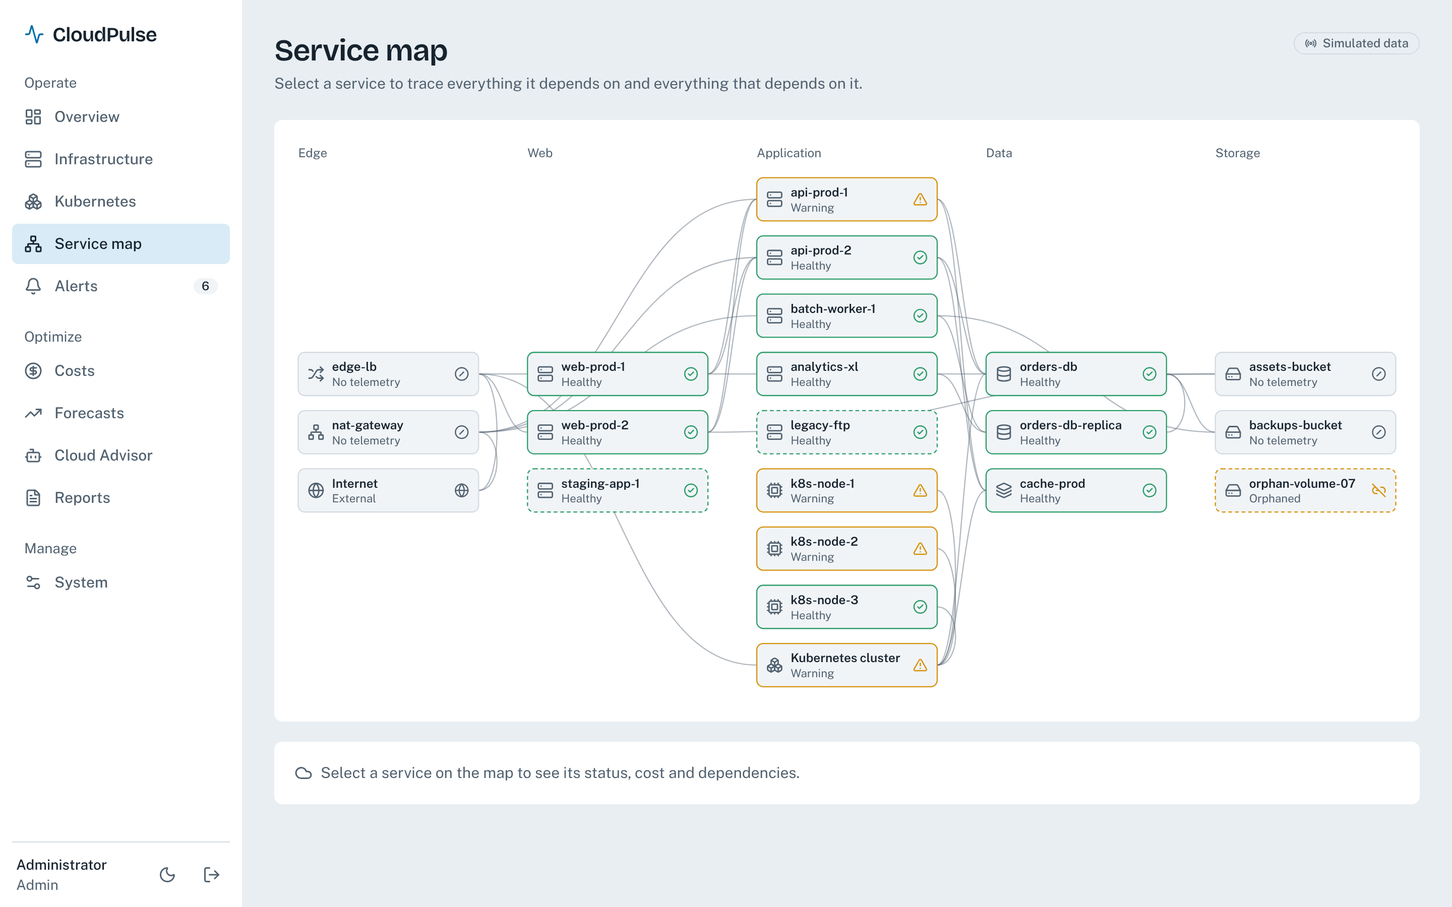
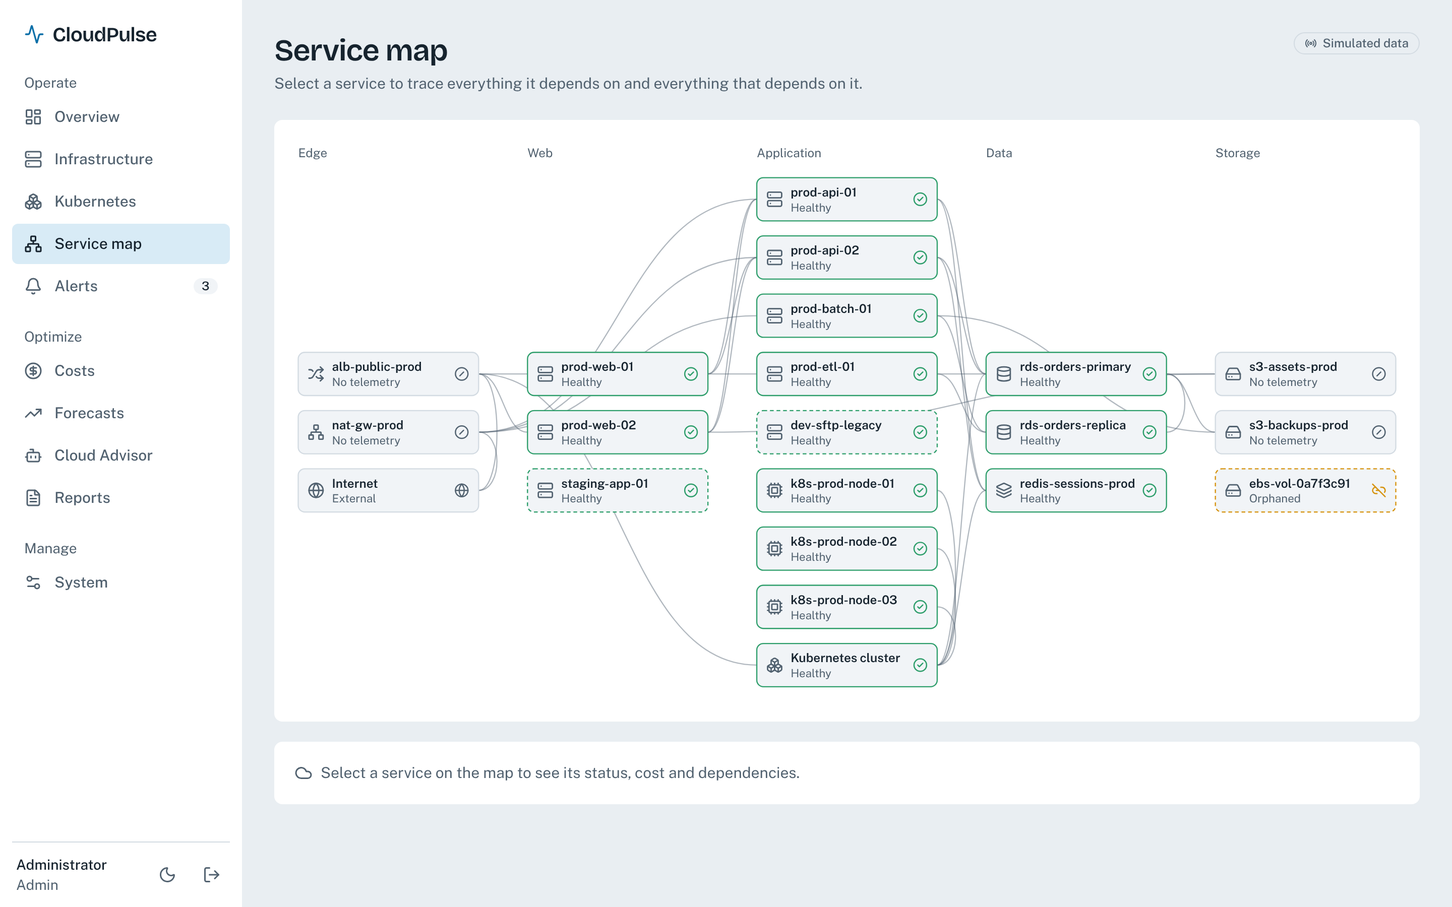
Use cloud-style names for the simulated fleet
Existing simulated databases are regenerated on startup when the fleet
definition changes. Real provider data is never touched.

Claude-Session: https://claude.ai/code/session_01MybYziyrGdNvCEPs6UjmW5

diff --git a/frontend/e2e/app.spec.ts b/frontend/e2e/app.spec.ts
@@ -9,7 +9,7 @@ const API = process.env.E2E_API_URL ?? 'http://localhost:8000';
 const ROUTES: [string, RegExp][] = [
   ['/', /on track to cost/],
   ['/infrastructure', /^Infrastructure$/],
-  ['/infrastructure/orders-db', /^orders-db$/],
+  ['/infrastructure/rds-orders-primary', /^rds-orders-primary$/],
   ['/costs', /^Costs$/],
   ['/forecasts', /^Forecasts$/],
   ['/kubernetes', /^Kubernetes$/],
@@ -115,9 +115,9 @@ test('live readings poll the API', async ({ page }) => {
 test('the map traces dependencies and shows details', async ({ page }) => {
   await signIn(page, admin);
   await page.goto('/map');
-  await page.locator('[data-node="orders-db"]').click();
+  await page.locator('[data-node="rds-orders-primary"]').click();
   await expect(page.getByText('Called by')).toBeVisible();
-  await expect(page.getByRole('link', { name: 'Open metrics' })).toHaveAttribute('href', '/infrastructure/orders-db');
+  await expect(page.getByRole('link', { name: 'Open metrics' })).toHaveAttribute('href', '/infrastructure/rds-orders-primary');
 });
 
 test('the advisor answers and states its mode', async ({ page }) => {

diff --git a/backend/tests/test_services.py b/backend/tests/test_services.py
@@ -78,8 +78,8 @@ def test_lower_thresholds_raise_more_warnings(dataset, settings):
 
 
 def test_resource_series_resolution(dataset):
-    hourly = insights.resource_series(dataset, "web-prod-1", hours=48)
-    daily = insights.resource_series(dataset, "web-prod-1", hours=24 * 7, resolution="day")
+    hourly = insights.resource_series(dataset, "prod-web-01", hours=48)
+    daily = insights.resource_series(dataset, "prod-web-01", hours=24 * 7, resolution="day")
     assert len(hourly) == 48 and 7 <= len(daily) <= 8
 
 
@@ -120,11 +120,11 @@ def test_cost_forecast_shape(dataset):
 
 
 def test_utilization_forecast_validation(dataset):
-    assert len(insights.utilization_forecast(dataset, "orders-db", "disk_pct", 7)["forecast"]) == 7
+    assert len(insights.utilization_forecast(dataset, "rds-orders-primary", "disk_pct", 7)["forecast"]) == 7
     with pytest.raises(LookupError):
         insights.utilization_forecast(dataset, "nope")
     with pytest.raises(ValueError):
-        insights.utilization_forecast(dataset, "orders-db", "network_mbps")
+        insights.utilization_forecast(dataset, "rds-orders-primary", "network_mbps")
 
 
 # ---------- alerts ----------
@@ -133,8 +133,8 @@ def test_alert_rules_find_planted_and_threshold_conditions(dataset, settings):
     found = {a["fingerprint"]: a for a in alert_rules.evaluate(dataset, settings)}
     assert len(found) == len(alert_rules.evaluate(dataset, settings))  # fingerprints unique
     cost = [a for a in found.values() if a["category"] == "cost"]
-    assert {a["resource"] for a in cost} == {"batch-worker-1"}  # nat-gateway spike is older than 30 days
-    assert "capacity:orders-db:disk_pct" in found
+    assert {a["resource"] for a in cost} == {"prod-batch-01"}  # nat-gw-prod spike is older than 30 days
+    assert "capacity:rds-orders-primary:disk_pct" in found
     for alert in found.values():
         if alert["category"] in {"cpu", "memory"}:
             assert alert["value"] >= alert["threshold"]
@@ -142,13 +142,13 @@ def test_alert_rules_find_planted_and_threshold_conditions(dataset, settings):
 
 def test_availability_alert_when_health_check_fails(dataset, settings):
     metrics = dataset.metrics.copy()
-    last = metrics.index[(metrics["resource"] == "web-prod-2") & (metrics["timestamp"] == metrics["timestamp"].max())]
+    last = metrics.index[(metrics["resource"] == "prod-web-02") & (metrics["timestamp"] == metrics["timestamp"].max())]
     metrics.loc[last, "available"] = 0
     broken = type(dataset).from_frames(dataset.resources, dataset.billing, metrics)
-    alert = next(a for a in alert_rules.evaluate(broken, settings) if a["fingerprint"] == "availability:web-prod-2")
+    alert = next(a for a in alert_rules.evaluate(broken, settings) if a["fingerprint"] == "availability:prod-web-02")
     assert alert["severity"] == "critical"
     status = {r["name"]: r for r in insights.resource_status(broken, settings)}
-    assert status["web-prod-2"]["status"] == "critical"
+    assert status["prod-web-02"]["status"] == "critical"
 
 
 # ---------- kubernetes & topology ----------
@@ -192,7 +192,7 @@ def test_topology_edges_reference_existing_nodes(dataset, settings):
     graph = topology.build_topology(dataset, settings)
     ids = {n["id"] for n in graph["nodes"]}
     assert all(e["source"] in ids and e["target"] in ids for e in graph["edges"])
-    orphan = next(n for n in graph["nodes"] if n["id"] == "orphan-volume-07")
+    orphan = next(n for n in graph["nodes"] if n["id"] == "ebs-vol-0a7f3c91")
     assert orphan["status"] == "orphaned" and orphan["isolated"]
 
 
@@ -229,13 +229,13 @@ def test_ai_mode_sends_facts_and_returns_model_text(dataset, settings):
 
     def post(url, json, timeout, headers):
         captured.update(url=url, payload=json, headers=headers)
-        return _FakeResponse({"content": [{"type": "text", "text": "Downsize analytics-xl."}]})
+        return _FakeResponse({"content": [{"type": "text", "text": "Downsize prod-etl-01."}]})
 
     configured = replace(settings, anthropic_api_key="sk-test")
     out = advisor.advise(dataset, configured, [], "What should we fix?", post=post)
-    assert out["mode"] == "ai" and out["answer"] == "Downsize analytics-xl." and out["model"] == configured.anthropic_model
+    assert out["mode"] == "ai" and out["answer"] == "Downsize prod-etl-01." and out["model"] == configured.anthropic_model
     assert captured["headers"]["x-api-key"] == "sk-test"
-    assert "analytics-xl" in captured["payload"]["messages"][0]["content"]
+    assert "prod-etl-01" in captured["payload"]["messages"][0]["content"]
 
 
 def test_ai_failure_falls_back_with_notice(dataset, settings):
@@ -270,4 +270,4 @@ def test_pdf_report_is_valid_and_labeled(dataset, settings):
     pypdf = pytest.importorskip("pypdf")
     import io
     text = "".join(page.extract_text() for page in pypdf.PdfReader(io.BytesIO(pdf)).pages)
-    assert "Simulated data" in text and "Recommendations" in text and "analytics-xl" in text
+    assert "Simulated data" in text and "Recommendations" in text and "prod-etl-01" in text

diff --git a/backend/app/services/topology.py b/backend/app/services/topology.py
@@ -14,31 +14,32 @@ _VIRTUAL = [
 ]
 
 _TIER_BY_RESOURCE = {
-    "edge-lb": "edge", "nat-gateway": "edge",
-    "web-prod-1": "web", "web-prod-2": "web", "staging-app-1": "web",
-    "api-prod-1": "application", "api-prod-2": "application", "batch-worker-1": "application",
-    "analytics-xl": "application", "legacy-ftp": "application",
-    "k8s-node-1": "application", "k8s-node-2": "application", "k8s-node-3": "application",
-    "orders-db": "data", "orders-db-replica": "data", "cache-prod": "data",
-    "assets-bucket": "storage", "backups-bucket": "storage", "orphan-volume-07": "storage",
+    "alb-public-prod": "edge", "nat-gw-prod": "edge",
+    "prod-web-01": "web", "prod-web-02": "web", "staging-app-01": "web",
+    "prod-api-01": "application", "prod-api-02": "application", "prod-batch-01": "application",
+    "prod-etl-01": "application", "dev-sftp-legacy": "application",
+    "k8s-prod-node-01": "application", "k8s-prod-node-02": "application", "k8s-prod-node-03": "application",
+    "rds-orders-primary": "data", "rds-orders-replica": "data", "redis-sessions-prod": "data",
+    "s3-assets-prod": "storage", "s3-backups-prod": "storage", "ebs-vol-0a7f3c91": "storage",
 }
 
 # source, target, relationship
 _EDGES = [
-    ("internet", "edge-lb", "HTTPS 443"),
-    ("edge-lb", "web-prod-1", "HTTP"), ("edge-lb", "web-prod-2", "HTTP"), ("edge-lb", "k8s-cluster", "Ingress"),
-    ("web-prod-1", "api-prod-1", "REST"), ("web-prod-1", "api-prod-2", "REST"),
-    ("web-prod-2", "api-prod-1", "REST"), ("web-prod-2", "api-prod-2", "REST"),
-    ("web-prod-1", "assets-bucket", "Static assets"), ("web-prod-2", "assets-bucket", "Static assets"),
-    ("k8s-cluster", "k8s-node-1", "Schedules"), ("k8s-cluster", "k8s-node-2", "Schedules"), ("k8s-cluster", "k8s-node-3", "Schedules"),
-    ("k8s-cluster", "orders-db", "SQL"), ("k8s-cluster", "cache-prod", "Redis"),
-    ("api-prod-1", "orders-db", "SQL"), ("api-prod-2", "orders-db", "SQL"),
-    ("api-prod-1", "cache-prod", "Redis"), ("api-prod-2", "cache-prod", "Redis"),
-    ("orders-db", "orders-db-replica", "Replication"), ("orders-db", "backups-bucket", "Nightly backup"),
-    ("batch-worker-1", "orders-db-replica", "Read queries"), ("batch-worker-1", "backups-bucket", "Exports"),
-    ("analytics-xl", "orders-db-replica", "Read queries"),
-    ("batch-worker-1", "nat-gateway", "Egress"), ("api-prod-1", "nat-gateway", "Egress"), ("api-prod-2", "nat-gateway", "Egress"),
-    ("nat-gateway", "internet", "Outbound"),
+    ("internet", "alb-public-prod", "HTTPS 443"),
+    ("alb-public-prod", "prod-web-01", "HTTP"), ("alb-public-prod", "prod-web-02", "HTTP"), ("alb-public-prod", "k8s-cluster", "Ingress"),
+    ("prod-web-01", "prod-api-01", "REST"), ("prod-web-01", "prod-api-02", "REST"),
+    ("prod-web-02", "prod-api-01", "REST"), ("prod-web-02", "prod-api-02", "REST"),
+    ("prod-web-01", "s3-assets-prod", "Static assets"), ("prod-web-02", "s3-assets-prod", "Static assets"),
+    ("k8s-cluster", "k8s-prod-node-01", "Schedules"), ("k8s-cluster", "k8s-prod-node-02", "Schedules"),
+    ("k8s-cluster", "k8s-prod-node-03", "Schedules"),
+    ("k8s-cluster", "rds-orders-primary", "SQL"), ("k8s-cluster", "redis-sessions-prod", "Redis"),
+    ("prod-api-01", "rds-orders-primary", "SQL"), ("prod-api-02", "rds-orders-primary", "SQL"),
+    ("prod-api-01", "redis-sessions-prod", "Redis"), ("prod-api-02", "redis-sessions-prod", "Redis"),
+    ("rds-orders-primary", "rds-orders-replica", "Replication"), ("rds-orders-primary", "s3-backups-prod", "Nightly backup"),
+    ("prod-batch-01", "rds-orders-replica", "Read queries"), ("prod-batch-01", "s3-backups-prod", "Exports"),
+    ("prod-etl-01", "rds-orders-replica", "Read queries"),
+    ("prod-batch-01", "nat-gw-prod", "Egress"), ("prod-api-01", "nat-gw-prod", "Egress"), ("prod-api-02", "nat-gw-prod", "Egress"),
+    ("nat-gw-prod", "internet", "Outbound"),
 ]
 
 

diff --git a/backend/tests/test_api.py b/backend/tests/test_api.py
@@ -130,10 +130,10 @@ def test_infrastructure_endpoints(client, viewer):
     assert len(resources) == 19
     prod = client.get(f"{API}/infrastructure/resources", params={"environment": "prod"}, headers=viewer).json()["items"]
     assert prod and all(r["environment"] == "prod" for r in prod)
-    series = client.get(f"{API}/infrastructure/resources/api-prod-1/metrics", params={"hours": 24}, headers=viewer).json()
+    series = client.get(f"{API}/infrastructure/resources/prod-api-01/metrics", params={"hours": 24}, headers=viewer).json()
     assert len(series["points"]) == 24
     assert client.get(f"{API}/infrastructure/resources/missing/metrics", headers=viewer).status_code == 404
-    assert client.get(f"{API}/infrastructure/resources/api-prod-1/metrics", params={"hours": 0}, headers=viewer).status_code == 422
+    assert client.get(f"{API}/infrastructure/resources/prod-api-01/metrics", params={"hours": 0}, headers=viewer).status_code == 422
     live = client.get(f"{API}/infrastructure/live", headers=viewer).json()
     assert live["data_source"] == "SIMULATED_LIVE" and live["readings"]
     assert client.get(f"{API}/infrastructure/trends", headers=viewer).json()["points"]
@@ -146,7 +146,7 @@ def test_finops_endpoints_reconcile(client, viewer):
     recs = client.get(f"{API}/finops/recommendations", headers=viewer).json()
     assert recs["total_monthly_savings_usd"] == pytest.approx(summary["potential_monthly_savings_usd"], abs=0.01)
     anomalies = client.get(f"{API}/finops/anomalies", headers=viewer).json()["items"]
-    assert {a["resource"] for a in anomalies} == {"batch-worker-1", "nat-gateway"}
+    assert {a["resource"] for a in anomalies} == {"prod-batch-01", "nat-gw-prod"}
     assert client.get(f"{API}/finops/breakdown", params={"by": "owner"}, headers=viewer).status_code == 422
     daily = client.get(f"{API}/finops/daily", params={"days": 30}, headers=viewer).json()
     assert len(daily["points"]) == 30
@@ -155,11 +155,11 @@ def test_finops_endpoints_reconcile(client, viewer):
 def test_analytics_endpoints(client, viewer):
     forecast = client.get(f"{API}/analytics/forecast/cost", params={"horizon": 14}, headers=viewer).json()
     assert len(forecast["forecast"]) == 14 and forecast["backtest"]["mape_pct"] < 8
-    util = client.get(f"{API}/analytics/forecast/utilization", params={"resource": "orders-db", "metric": "disk_pct"}, headers=viewer)
+    util = client.get(f"{API}/analytics/forecast/utilization", params={"resource": "rds-orders-primary", "metric": "disk_pct"}, headers=viewer)
     assert util.status_code == 200 and len(util.json()["forecast"]) == 14
     assert client.get(f"{API}/analytics/forecast/utilization", params={"resource": "ghost"}, headers=viewer).status_code == 404
     capacity = client.get(f"{API}/analytics/capacity", headers=viewer).json()["items"]
-    assert capacity[0]["resource"] == "orders-db" and capacity[0]["metric"] == "disk_pct"
+    assert capacity[0]["resource"] == "rds-orders-primary" and capacity[0]["metric"] == "disk_pct"
     assert client.get(f"{API}/analytics/anomalies/usage", params={"limit": 5}, headers=viewer).status_code == 200
 
 
@@ -209,7 +209,7 @@ def test_alert_acknowledge_and_resolve(client, engineer, viewer):
 
 def test_advisor_fallback(client, viewer):
     out = client.post(f"{API}/advisor/ask", json={"question": "How can we reduce cost?"}, headers=viewer).json()
-    assert out["mode"] == "fallback" and "analytics-xl" in out["answer"]
+    assert out["mode"] == "fallback" and "prod-etl-01" in out["answer"]
     assert client.post(f"{API}/advisor/ask", json={"question": "x"}, headers=viewer).status_code == 422
     assert client.get(f"{API}/advisor/summary", headers=viewer).json()["mode"] == "fallback"
 

diff --git a/analytics/cloudpulse_analytics/simulator.py b/analytics/cloudpulse_analytics/simulator.py
@@ -15,25 +15,25 @@ DATA_SOURCE_LABEL = "SIMULATED"
 
 # name, service, kind, environment, hourly_usd, cpu_base, mem_base, always_on
 _FLEET = [
-    ("web-prod-1", "Compute", "vm", "prod", 0.192, 58, 62, True),
-    ("web-prod-2", "Compute", "vm", "prod", 0.192, 55, 60, True),
-    ("api-prod-1", "Compute", "vm", "prod", 0.384, 64, 70, True),
-    ("api-prod-2", "Compute", "vm", "prod", 0.384, 61, 68, True),
-    ("batch-worker-1", "Compute", "vm", "prod", 0.768, 34, 41, True),
-    ("analytics-xl", "Compute", "vm", "prod", 1.536, 6, 14, True),
-    ("staging-app-1", "Compute", "vm", "staging", 0.192, 4, 11, True),
-    ("legacy-ftp", "Compute", "vm", "dev", 0.096, 1, 7, True),
-    ("orders-db", "Database", "database", "prod", 0.712, 47, 74, True),
-    ("orders-db-replica", "Database", "database", "prod", 0.712, 12, 38, True),
-    ("cache-prod", "Cache", "cache", "prod", 0.312, 28, 71, True),
-    ("k8s-node-1", "Kubernetes", "node", "prod", 0.384, 66, 72, True),
-    ("k8s-node-2", "Kubernetes", "node", "prod", 0.384, 63, 69, True),
-    ("k8s-node-3", "Kubernetes", "node", "prod", 0.384, 59, 66, True),
-    ("assets-bucket", "Storage", "storage", "prod", 0.145, 0, 0, True),
-    ("backups-bucket", "Storage", "storage", "prod", 0.210, 0, 0, True),
-    ("orphan-volume-07", "Storage", "volume", "dev", 0.064, 0, 0, False),
-    ("edge-lb", "Network", "load_balancer", "prod", 0.089, 0, 0, True),
-    ("nat-gateway", "Network", "gateway", "prod", 0.135, 0, 0, True),
+    ("prod-web-01", "Compute", "vm", "prod", 0.192, 58, 62, True),
+    ("prod-web-02", "Compute", "vm", "prod", 0.192, 55, 60, True),
+    ("prod-api-01", "Compute", "vm", "prod", 0.384, 64, 70, True),
+    ("prod-api-02", "Compute", "vm", "prod", 0.384, 61, 68, True),
+    ("prod-batch-01", "Compute", "vm", "prod", 0.768, 34, 41, True),
+    ("prod-etl-01", "Compute", "vm", "prod", 1.536, 6, 14, True),
+    ("staging-app-01", "Compute", "vm", "staging", 0.192, 4, 11, True),
+    ("dev-sftp-legacy", "Compute", "vm", "dev", 0.096, 1, 7, True),
+    ("rds-orders-primary", "Database", "database", "prod", 0.712, 47, 74, True),
+    ("rds-orders-replica", "Database", "database", "prod", 0.712, 12, 38, True),
+    ("redis-sessions-prod", "Cache", "cache", "prod", 0.312, 28, 71, True),
+    ("k8s-prod-node-01", "Kubernetes", "node", "prod", 0.384, 66, 72, True),
+    ("k8s-prod-node-02", "Kubernetes", "node", "prod", 0.384, 63, 69, True),
+    ("k8s-prod-node-03", "Kubernetes", "node", "prod", 0.384, 59, 66, True),
+    ("s3-assets-prod", "Storage", "storage", "prod", 0.145, 0, 0, True),
+    ("s3-backups-prod", "Storage", "storage", "prod", 0.210, 0, 0, True),
+    ("ebs-vol-0a7f3c91", "Storage", "volume", "dev", 0.064, 0, 0, False),
+    ("alb-public-prod", "Network", "load_balancer", "prod", 0.089, 0, 0, True),
+    ("nat-gw-prod", "Network", "gateway", "prod", 0.135, 0, 0, True),
 ]
 _FLEET_COLUMNS = ["resource", "service", "kind", "environment", "hourly_usd", "cpu_base", "mem_base", "attached"]
 
@@ -45,7 +45,7 @@ class SimulationConfig:
     end: str = "2026-11-01"
     monthly_growth: float = 0.03
     # (days before end, resource, cost multiplier, duration in days)
-    cost_incidents: tuple = field(default_factory=lambda: ((18, "batch-worker-1", 3.2, 2), (47, "nat-gateway", 4.5, 1)))
+    cost_incidents: tuple = field(default_factory=lambda: ((18, "prod-batch-01", 3.2, 2), (47, "nat-gw-prod", 4.5, 1)))
 
 
 def generate_resources() -> pd.DataFrame:

diff --git a/backend/tests/test_deploy.py b/backend/tests/test_deploy.py
@@ -65,7 +65,7 @@ def test_demo_refuses_an_account_with_more_than_read_access(make_client):
 
 def test_dashboard_routes_serve_the_app_with_security_headers(make_client, dist):
     with make_client(web_dist=str(dist)) as client:
-        for path in ("/", "/costs", "/infrastructure/orders-db"):
+        for path in ("/", "/costs", "/infrastructure/rds-orders-primary"):
             response = client.get(path)
             assert response.status_code == 200 and 'id="root"' in response.text
             assert "frame-ancestors 'none'" in response.headers["content-security-policy"]
@@ -82,3 +82,24 @@ def test_catch_all_does_not_shadow_the_api_or_escape_the_directory(make_client, 
         assert "cloudpulse_data_available" in client.get("/metrics").text
         assert "private" not in client.get("/%2e%2e/secret.txt").text
         assert "private" not in client.get("/..%2fsecret.txt").text
+
+
+def test_old_simulated_fleet_is_replaced_on_startup_and_real_data_is_not(make_client):
+    from sqlalchemy import select, update
+
+    from app.models import Resource
+    from app.repository import reseed_if_fleet_changed
+
+    with make_client() as client:
+        settings, database = client.app.state.settings, client.app.state.database
+        with database.session_factory() as db:
+            assert reseed_if_fleet_changed(db, settings) is False
+            db.execute(update(Resource).where(Resource.name == "prod-web-01").values(name="old-name"))
+            db.commit()
+            assert reseed_if_fleet_changed(db, settings) is True
+            names = set(db.scalars(select(Resource.name)))
+            assert "old-name" not in names and "prod-web-01" in names
+            db.execute(update(Resource).where(Resource.name == "prod-web-01").values(name="real-host", provider="aws"))
+            db.commit()
+            assert reseed_if_fleet_changed(db, settings) is False
+            assert "real-host" in set(db.scalars(select(Resource.name)))

diff --git a/analytics/tests/test_analytics.py b/analytics/tests/test_analytics.py
@@ -105,7 +105,7 @@ def test_planted_cost_incidents_are_found_without_false_alarms(billing):
     end = pd.Timestamp("2026-11-01")
     start_batch = end - pd.Timedelta(days=119) + pd.Timedelta(days=120 - 18)
     start_nat = end - pd.Timedelta(days=119) + pd.Timedelta(days=120 - 47)
-    expected = {("batch-worker-1", start_batch), ("batch-worker-1", start_batch + pd.Timedelta(days=1)), ("nat-gateway", start_nat)}
+    expected = {("prod-batch-01", start_batch), ("prod-batch-01", start_batch + pd.Timedelta(days=1)), ("nat-gw-prod", start_nat)}
     assert set(zip(spikes["resource"], spikes["date"])) == expected
 
 
@@ -114,7 +114,7 @@ def test_no_spikes_without_incidents():
 
 
 def test_usage_anomaly_finds_injected_event(metrics):
-    frame = metrics[metrics["resource"] == "web-prod-1"].copy()
+    frame = metrics[metrics["resource"] == "prod-web-01"].copy()
     target = frame.index[300]
     frame.loc[target, ["cpu_pct", "memory_pct", "network_mbps"]] = [99.0, 99.0, 900.0]
     found = detect_usage_anomalies(frame)
@@ -145,10 +145,10 @@ def test_breakdown_rejects_unknown_dimension(billing):
 def test_recommendations_target_waste_only(billing, metrics):
     findings = recommend_optimizations(billing, metrics, generate_resources())
     by_resource = {f["resource"]: f for f in findings}
-    assert by_resource["orphan-volume-07"]["category"] == "orphaned"
-    assert by_resource["legacy-ftp"]["category"] == "idle"
-    assert by_resource["analytics-xl"]["category"] == "rightsizing"
-    assert "api-prod-1" not in by_resource and "orders-db" not in by_resource
+    assert by_resource["ebs-vol-0a7f3c91"]["category"] == "orphaned"
+    assert by_resource["dev-sftp-legacy"]["category"] == "idle"
+    assert by_resource["prod-etl-01"]["category"] == "rightsizing"
+    assert "prod-api-01" not in by_resource and "rds-orders-primary" not in by_resource
 
 
 def test_savings_never_exceed_resource_cost(billing, metrics):

diff --git a/backend/app/repository.py b/backend/app/repository.py
@@ -92,6 +92,18 @@ def seed_simulation(db: Session, settings: Settings, now: pd.Timestamp | None = 
     return True
 
 
+def reseed_if_fleet_changed(db: Session, settings: Settings) -> bool:
+    """A new simulator fleet can't be appended to old rows, so replace them. Never touches real provider data."""
+    rows = db.execute(select(Resource.name, Resource.provider)).all()
+    if not rows or any(provider != "simulated" for _, provider in rows):
+        return False
+    if {name for name, _ in rows} == set(generate_resources()["resource"]):
+        return False
+    log.info("simulated fleet definition changed: regenerating simulated data")
+    reset_simulation(db, settings)
+    return True
+
+
 def advance_simulation(db: Session, settings: Settings, now: pd.Timestamp | None = None) -> dict:
     """Append simulated hours and days that have elapsed since the last write, so the demo stays current."""
     if settings.simulation_end:

diff --git a/backend/app/main.py b/backend/app/main.py
@@ -17,7 +17,7 @@ from . import __version__
 from .config import Settings, get_settings
 from .database import Database
 from .metrics import install_metrics
-from .repository import DatasetStore, seed_simulation, seed_users
+from .repository import DatasetStore, reseed_if_fleet_changed, seed_simulation, seed_users
 from .routers import alerts, auth, finops, insights, operations
 from .security import SlidingWindowLimiter
 from .webapp import install_webapp
@@ -67,6 +67,7 @@ def create_app(settings: Settings | None = None) -> FastAPI:
             with app.state.database.session_factory() as db:
                 seed_users(db, settings)
                 if settings.seed_on_startup:
+                    reseed_if_fleet_changed(db, settings)
                     seed_simulation(db, settings)
         yield
         app.state.database.engine.dispose()

diff --git a/backend/app/services/advisor.py b/backend/app/services/advisor.py
@@ -124,7 +124,7 @@ def fallback_answer(facts: dict, question: str | None) -> str:
             f"There are {len(alerts)} open alerts: " + "; ".join(f"[{a['severity']}] {a['title']}" for a in alerts[:6]) + "."
             if alerts else "There are no open alerts."))
     if "kubernetes" in topics:
-        nodes = [s for s in facts["stressed_resources"] if s["name"].startswith("k8s-node")]
+        nodes = [s for s in facts["stressed_resources"] if s["name"].startswith("k8s-prod-node")]
         parts.append("Kubernetes nodes under pressure: " + ", ".join(f"{n['name']} ({'; '.join(n['reasons'])})" for n in nodes)
                      + ". Add a node or set resource limits so low-priority pods are not evicted." if nodes
                      else "All Kubernetes nodes are within CPU and memory thresholds.")

diff --git a/backend/tests/test_metrics.py b/backend/tests/test_metrics.py
@@ -31,7 +31,7 @@ def test_platform_gauges_are_exposed_and_labeled_simulated(client):
     for name in ("fleet_health_score", "cost_last_30d_usd", "cost_month_end_estimate_usd", "cost_potential_savings_monthly_usd"):
         assert f'cloudpulse_{name}{{data_source="SIMULATED"}}' in body
     assert 'cloudpulse_active_alerts{data_source="SIMULATED",severity="critical"}' in body
-    assert 'cloudpulse_resource_utilization_percent{data_source="SIMULATED",metric="cpu",resource="web-prod-1"}' in body
+    assert 'cloudpulse_resource_utilization_percent{data_source="SIMULATED",metric="cpu",resource="prod-web-01"}' in body
 
 
 def test_requests_are_counted_by_route_template_not_raw_path(client):

diff --git a/backend/app/services/kubernetes.py b/backend/app/services/kubernetes.py
@@ -1,6 +1,6 @@
 """Kubernetes cluster view.
 
-`simulated` mode derives node load from the simulated k8s-node-* telemetry and spreads it over a
+`simulated` mode derives node load from the simulated k8s-prod-node-* telemetry and spreads it over a
 fixed workload spec. `live` mode reads a real cluster through the official Python client when it
 is installed and a kubeconfig or in-cluster service account is available; otherwise it falls back
 to simulated mode and says why.
